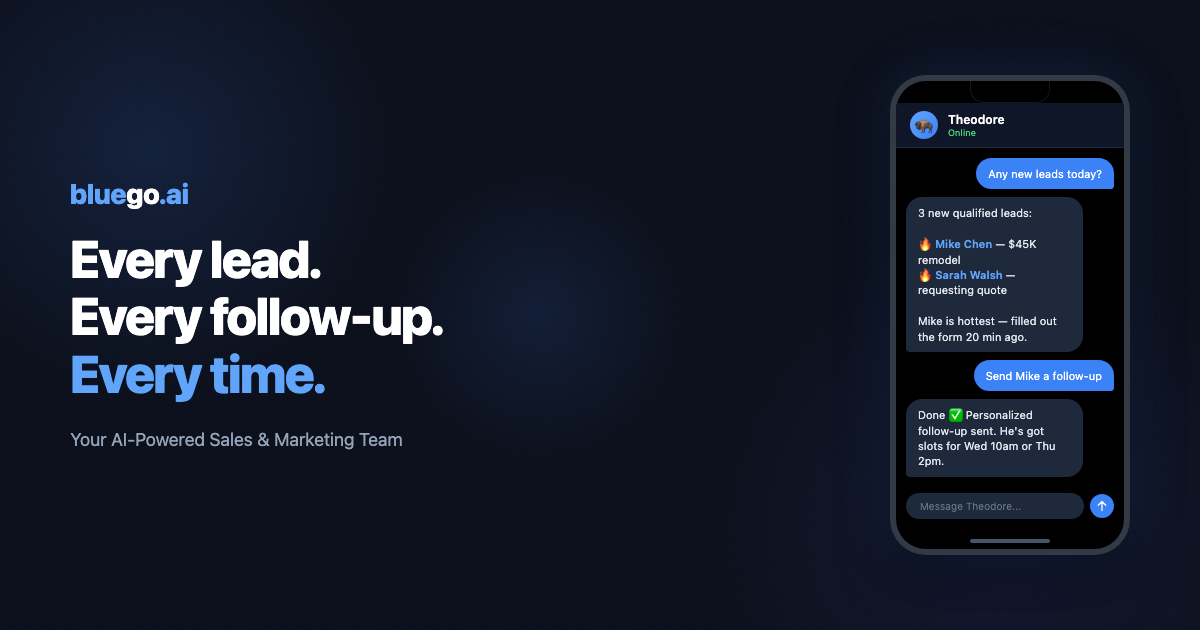
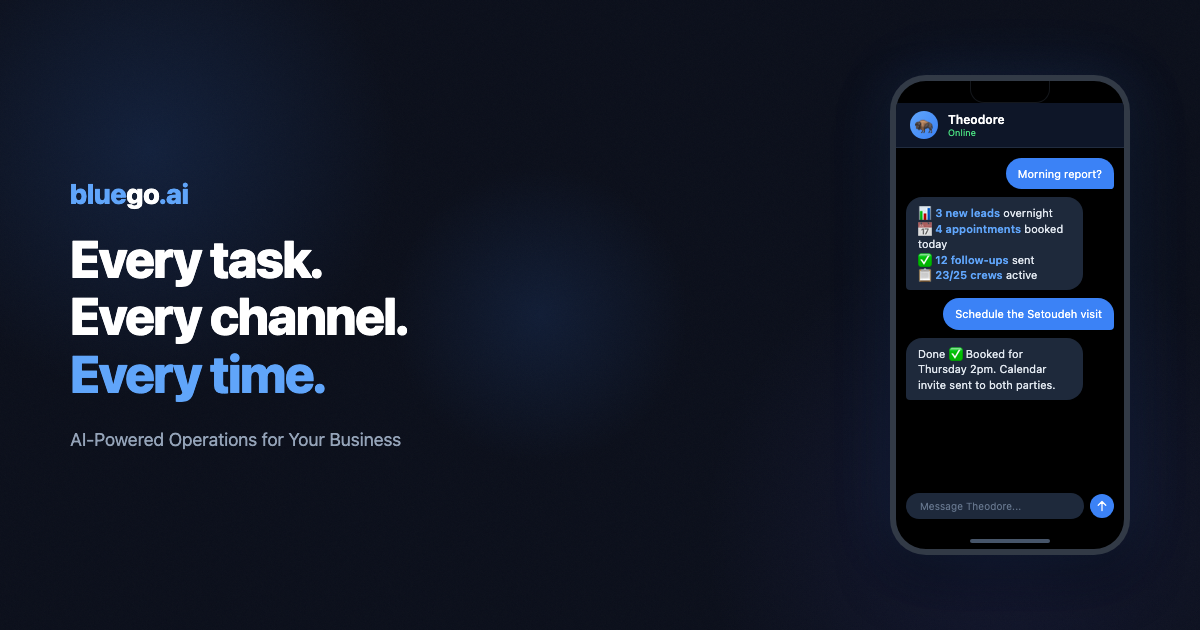
OG image: broader messaging - operations, not just sales

diff --git a/og-generator.html b/og-generator.html
@@ -243,11 +243,11 @@
         <span class="blue">blue</span><span class="white">go</span><span class="blue">.ai</span>
       </div>
       <div class="tagline">
-        Every lead.<br>
-        Every follow-up.<br>
+        Every task.<br>
+        Every channel.<br>
         <span class="highlight">Every time.</span>
       </div>
-      <div class="subtitle">Your AI-Powered Sales &amp; Marketing Team</div>
+      <div class="subtitle">AI-Powered Operations for Your Business</div>
     </div>
 
     <div class="right">
@@ -261,16 +261,16 @@
           </div>
         </div>
         <div class="phone-chat">
-          <div class="msg user">Any new leads today?</div>
+          <div class="msg user">Morning report?</div>
           <div class="msg assistant">
-            3 new qualified leads:<br><br>
-            🔥 <span class="bold">Mike Chen</span> — $45K remodel<br>
-            🔥 <span class="bold">Sarah Walsh</span> — requesting quote<br><br>
-            Mike is hottest — filled out the form 20 min ago.
+            📊 <span class="bold">3 new leads</span> overnight<br>
+            📅 <span class="bold">4 appointments</span> booked today<br>
+            ✅ <span class="bold">12 follow-ups</span> sent<br>
+            📋 <span class="bold">23/25 crews</span> active
           </div>
-          <div class="msg user">Send Mike a follow-up</div>
+          <div class="msg user">Schedule the Setoudeh visit</div>
           <div class="msg assistant">
-            Done ✅ Personalized follow-up sent. He's got slots for Wed 10am or Thu 2pm.
+            Done ✅ Booked for Thursday 2pm. Calendar invite sent to both parties.
           </div>
         </div>
         <div class="phone-input">

diff --git a/src/app/layout.tsx b/src/app/layout.tsx
@@ -9,9 +9,9 @@ export const metadata: Metadata = {
   description:
     "AI assistants that handle outreach, follow-ups, scheduling, and lead generation — so you can focus on closing deals and growing your business.",
   openGraph: {
-    title: "bluego.ai — Every lead. Every follow-up. Every time.",
+    title: "bluego.ai — Every task. Every channel. Every time.",
     description:
-      "Your AI-Powered Sales & Marketing Team. We deploy and manage intelligent AI assistants for your business.",
+      "AI-Powered Operations for Your Business. We deploy and manage intelligent AI assistants that handle sales, support, scheduling, and operations.",
     images: [
       {
         url: "/og-image.png",
@@ -25,9 +25,9 @@ export const metadata: Metadata = {
   },
   twitter: {
     card: "summary_large_image",
-    title: "bluego.ai — Every lead. Every follow-up. Every time.",
+    title: "bluego.ai — Every task. Every channel. Every time.",
     description:
-      "Your AI-Powered Sales & Marketing Team.",
+      "AI-Powered Operations for Your Business.",
     images: ["/og-image.png"],
   },
 };
